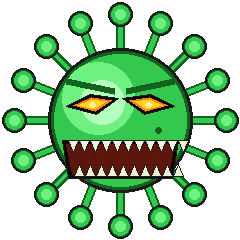
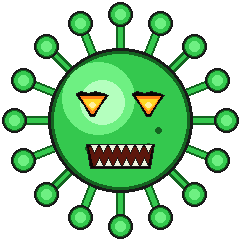
fix(boss): smaller pumpkin grin + jack-o-lantern triangle eyes v0.4.2 (#9)
v0.4.1 playtest notes:

1. Boss mouth was too wide. Shrunk from 116x42 to 68x28 (~60% of the
   old footprint), moved slightly lower on the body, and cut the tooth
   count from 11+10 to 7+6 so each tooth reads at a larger scale.

2. Boss eyes redone with proper jack-o-lantern triangular cutouts per
   the user-supplied Halloween-virus reference: wide jagged top edge,
   pointed bottom, orange->yellow->white layered glow inside, and a
   dark socket outline. Replaces the v0.4.1 diamond/lozenge slits
   (which read as "demon" rather than "pumpkin").

Version bumped to 0.4.2. 68/68 tests green, native + wasm clean.

https://claude.ai/code/session_013nD36GQ5f5SKYHJJCZxvkV

Changed region(s): [[0.2625, 0.5833, 0.7875, 0.7583], [0.2625, 0.3208, 0.7292, 0.4958]]

diff --git a/tools/generate_extras.py b/tools/generate_extras.py
@@ -428,104 +428,101 @@ def make_boss_virus_pumpkin() -> Image.Image:
     for (dx, dy) in ((-32, 28), (28, 26), (-18, 42), (38, 10)):
         d.ellipse((cx + dx - 3, cy + dy - 3, cx + dx + 3, cy + dy + 3), fill=core_dark)
 
-    # ---------- Angular "demon slit" eyes ----------
-    # Narrow pointed ovals slanting down-and-outward so they read as
-    # angry even without brow shapes. Vertex polygon instead of a
-    # circle so the silhouette is clearly NOT round.
-    eye_cy = cy - 16
-    def slit_eye(center_x: int, flip: bool) -> None:
-        # Diamond/lozenge shape with a pointed outer tip for menace.
-        inner_tip = (center_x - 26 if not flip else center_x + 26, eye_cy + 2)
-        outer_tip = (center_x + 26 if not flip else center_x - 26, eye_cy - 6)
-        top_mid = (center_x + (-2 if not flip else 2), eye_cy - 10)
-        bot_mid = (center_x + (4 if not flip else -4), eye_cy + 10)
-        pts = [inner_tip, top_mid, outer_tip, bot_mid]
-        # Black outer socket
-        d.polygon(pts, fill=eye_dark, outline=out)
-        # Inner orange->yellow glow (scaled inward toward the center)
-        cxe = center_x
-        inner_pts = [
-            (cxe + int((p[0] - cxe) * 0.75), eye_cy + int((p[1] - eye_cy) * 0.75))
-            for p in pts
+    # ---------- Jack-o-lantern triangular eyes ----------
+    # Matching the Halloween-pumpkin reference: two downward-pointing
+    # triangular cutouts, not slits and not round cartoon eyes. Yellow
+    # glow inside so they read as carved + lit.
+    def pumpkin_eye(center_x: int, center_y: int) -> None:
+        # Outer jagged triangle (base at top, point at bottom).
+        outer = [
+            (center_x - 16, center_y - 13),
+            (center_x - 11, center_y - 15),
+            (center_x - 4, center_y - 13),
+            (center_x + 3, center_y - 15),
+            (center_x + 11, center_y - 13),
+            (center_x + 16, center_y - 11),
+            (center_x + 9, center_y - 2),
+            (center_x + 2, center_y + 10),
+            (center_x - 2, center_y + 10),
+            (center_x - 9, center_y - 2),
+            (center_x - 16, center_y - 11),
         ]
-        d.polygon(inner_pts, fill=eye_orange)
-        inner_pts2 = [
-            (cxe + int((p[0] - cxe) * 0.55), eye_cy + int((p[1] - eye_cy) * 0.55))
-            for p in pts
+        d.polygon(outer, fill=eye_dark, outline=out)
+        # Inner orange glow triangle.
+        inner1 = [
+            (center_x - 12, center_y - 10),
+            (center_x + 12, center_y - 10),
+            (center_x + 7, center_y - 2),
+            (center_x + 1, center_y + 7),
+            (center_x - 1, center_y + 7),
+            (center_x - 7, center_y - 2),
         ]
-        d.polygon(inner_pts2, fill=eye_yellow)
-        # Bright core highlight
+        d.polygon(inner1, fill=eye_orange)
+        # Yellow inner core.
+        inner2 = [
+            (center_x - 9, center_y - 7),
+            (center_x + 9, center_y - 7),
+            (center_x + 5, center_y - 1),
+            (center_x, center_y + 4),
+            (center_x - 5, center_y - 1),
+        ]
+        d.polygon(inner2, fill=eye_yellow)
+        # Bright glow center.
         d.ellipse(
-            (cxe - 3, eye_cy - 2, cxe + 3, eye_cy + 3),
+            (center_x - 3, center_y - 4, center_x + 3, center_y + 1),
             fill=eye_glow,
         )
 
-    slit_eye(cx - 28, flip=False)
-    slit_eye(cx + 28, flip=True)
+    pumpkin_eye(cx - 28, cy - 14)
+    pumpkin_eye(cx + 28, cy - 14)
 
-    # Angry slanted brow bars above each slit so the whole face reads
-    # as glaring down at the player.
-    for ex_off, slant in ((-28, -1), (28, 1)):
-        ex = cx + ex_off
-        if slant < 0:
-            pts = [
-                (ex - 26, eye_cy - 26),
-                (ex + 22, eye_cy - 16),
-                (ex + 22, eye_cy - 10),
-                (ex - 26, eye_cy - 20),
-            ]
-        else:
-            pts = [
-                (ex - 22, eye_cy - 16),
-                (ex + 26, eye_cy - 26),
-                (ex + 26, eye_cy - 20),
-                (ex - 22, eye_cy - 10),
-            ]
-        d.polygon(pts, fill=core_dark)
-
-    # ---------- Huge pumpkin grin ----------
-    mouth_top = cy + 16
-    mouth_bottom = cy + 58
-    mouth_left = cx - 58
-    mouth_right = cx + 58
+    # ---------- Smaller Halloween-pumpkin grin ----------
+    # Playtest complaint: the old mouth was too big, nearly spanning the
+    # whole body width. Shrunk to roughly 60% the previous width and
+    # nested a little lower on the body.
+    mouth_top = cy + 20
+    mouth_bottom = cy + 48
+    mouth_left = cx - 34
+    mouth_right = cx + 34
     d.polygon(
         [
             (mouth_left, mouth_top + 4),
             (mouth_right, mouth_top + 4),
-            (mouth_right - 6, mouth_bottom),
-            (mouth_left + 6, mouth_bottom),
+            (mouth_right - 4, mouth_bottom),
+            (mouth_left + 4, mouth_bottom),
         ],
         fill=grin_dark,
         outline=out,
     )
     d.polygon(
         [
-            (mouth_left + 4, mouth_top + 8),
-            (mouth_right - 4, mouth_top + 8),
-            (mouth_right - 10, mouth_bottom - 4),
-            (mouth_left + 10, mouth_bottom - 4),
+            (mouth_left + 3, mouth_top + 7),
+            (mouth_right - 3, mouth_top + 7),
+            (mouth_right - 7, mouth_bottom - 3),
+            (mouth_left + 7, mouth_bottom - 3),
         ],
         fill=grin_inner,
     )
-    tooth_step = 11
-    for i in range(11):
-        tx = mouth_left + 6 + i * tooth_step
+    # Fewer, slightly smaller teeth.
+    tooth_step = 9
+    for i in range(7):
+        tx = mouth_left + 4 + i * tooth_step
         d.polygon(
             [
                 (tx, mouth_top + 4),
                 (tx + tooth_step - 1, mouth_top + 4),
-                (tx + tooth_step // 2, mouth_top + 16),
+                (tx + tooth_step // 2, mouth_top + 13),
             ],
             fill=tooth,
             outline=out,
         )
-    for i in range(10):
-        tx = mouth_left + 12 + i * tooth_step
+    for i in range(6):
+        tx = mouth_left + 9 + i * tooth_step
         d.polygon(
             [
                 (tx, mouth_bottom - 2),
                 (tx + tooth_step - 1, mouth_bottom - 2),
-                (tx + tooth_step // 2, mouth_bottom - 14),
+                (tx + tooth_step // 2, mouth_bottom - 11),
             ],
             fill=tooth,
             outline=out,
